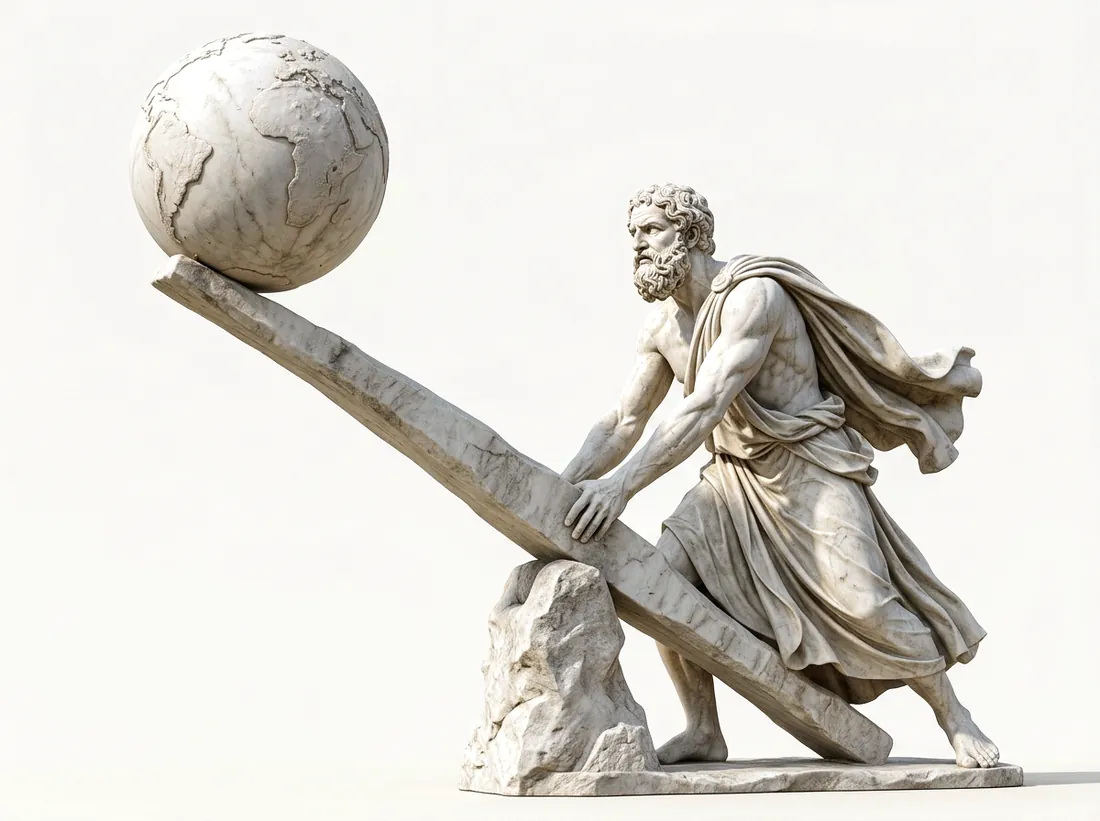
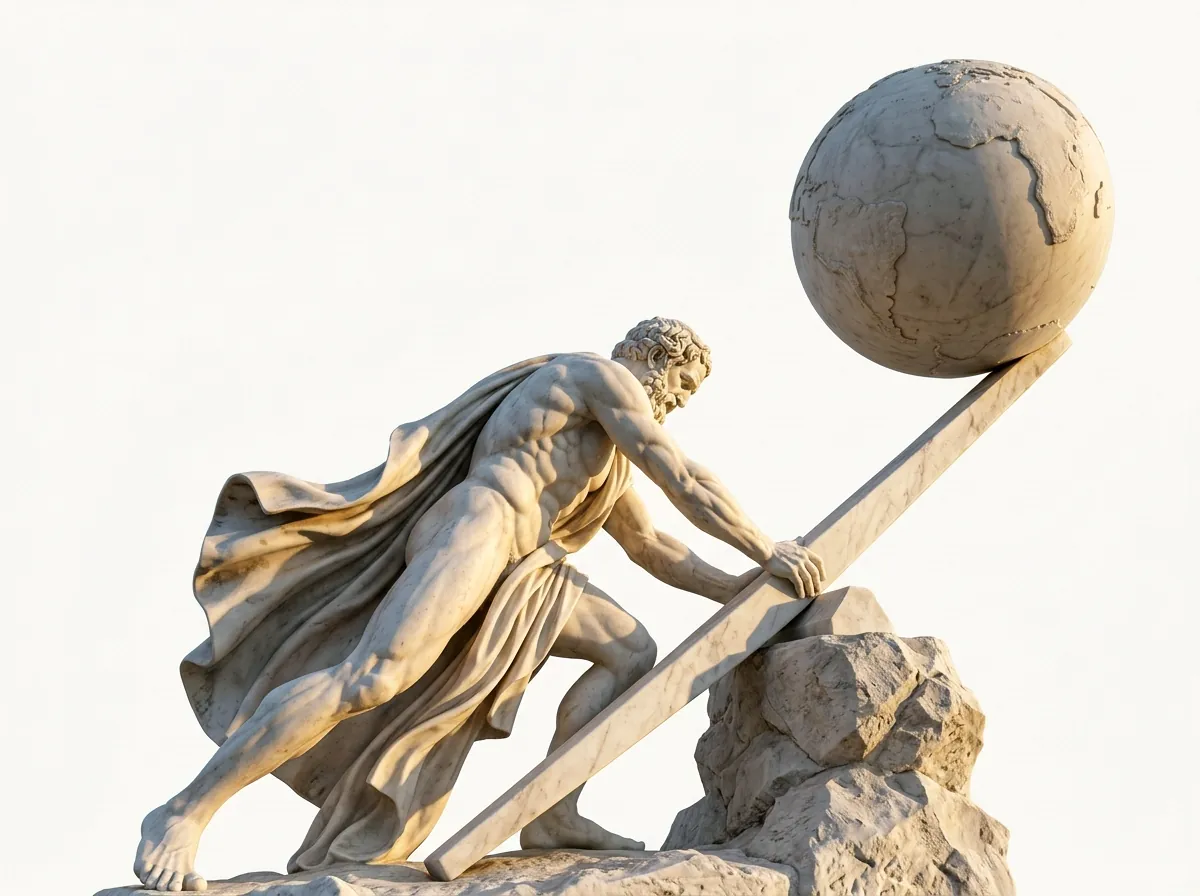
Demo: longer telos hold with sunrise finish, titan Archimedes, thumbs-up Aristotle CTA
Claude-Session: https://claude.ai/code/session_01M8mVGnhN6MYozZihRYpNZH

diff --git a/site/demo/index.html b/site/demo/index.html
@@ -126,25 +126,41 @@
   @keyframes bob { 50% { transform: translateY(-8px); } }
 
   /* telos */
-  .telos { height: 380vh; }
-  .telos-pin { position: sticky; top: 0; height: 100vh; display: grid; place-items: center; overflow: hidden; background: var(--ivory-2); }
+  .telos { height: 520vh; }
+  .telos-pin { position: sticky; top: 0; height: 100vh; display: grid; place-items: center; overflow: hidden;
+    --w: min(1, calc(var(--p, 0) * 3.4)); --m: clamp(0, calc(var(--p, 0) * 10 - 2.6), 1); --d: clamp(0, calc(var(--p, 0) * 10 - 3.4), 1);
+    --q: clamp(0, calc(var(--p, 0) * 10 - 4.3), 1); --s: clamp(0, calc((var(--p, 0) - .52) * 2.4), 1); --e: clamp(0, calc(var(--p, 0) * 12 - 10.8), 1);
+    background: color-mix(in srgb, #fbe6da calc(var(--s) * 70%), var(--ivory-2)); }
   .telos-inner { text-align: center; padding: 0 24px; position: relative; z-index: 2; }
-  .telos-word { font-family: var(--serif); font-size: clamp(96px, 16vw, 230px); line-height: .9; letter-spacing: -.035em; filter: blur(calc(max(0, 1 - var(--p, 0) * 1.5) * 18px)); opacity: calc(.25 + min(1, var(--p, 0) * 1.5) * .75); transform: scale(calc(1.08 - min(1, var(--p, 0) * 1.5) * .08)); }
-  .telos-meta { margin-top: 18px; display: flex; justify-content: center; gap: 14px; align-items: baseline; flex-wrap: wrap; font-size: 18px; color: var(--ink-3); opacity: clamp(0, calc(var(--p, 0) * 3 - .9), 1); transform: translateY(calc((1 - clamp(0, calc(var(--p, 0) * 3 - .9), 1)) * 16px)); }
+  .telos-word { font-family: var(--serif); font-size: clamp(96px, 16vw, 230px); line-height: .9; letter-spacing: -.035em; filter: blur(calc((1 - var(--w)) * 18px)); opacity: calc(.25 + var(--w) * .75); transform: scale(calc(1.08 - var(--w) * .08 + var(--e) * .04)); color: color-mix(in srgb, var(--clay) calc(var(--s) * 100%), var(--ink)); }
+  .telos-meta { margin-top: 18px; display: flex; justify-content: center; gap: 14px; align-items: baseline; flex-wrap: wrap; font-size: 18px; color: var(--ink-3); opacity: var(--m); transform: translateY(calc((1 - var(--m)) * 16px)); }
   .telos-meta .greek { font-family: var(--serif); font-size: 30px; color: var(--ink); }
   .telos-meta .pos { font-family: var(--serif); font-size: 20px; }
-  .telos-def { font-family: var(--serif); font-size: clamp(24px, 2.8vw, 36px); line-height: 1.25; max-width: 24ch; margin: 18px auto 0; opacity: clamp(0, calc(var(--p, 0) * 3 - 1.3), 1); transform: translateY(calc((1 - clamp(0, calc(var(--p, 0) * 3 - 1.3), 1)) * 16px)); }
-  .telos-q { margin-top: 44px; opacity: clamp(0, calc(var(--p, 0) * 3 - 1.8), 1); transform: translateY(calc((1 - clamp(0, calc(var(--p, 0) * 3 - 1.8), 1)) * 20px)); }
+  .telos-def { font-family: var(--serif); font-size: clamp(24px, 2.8vw, 36px); line-height: 1.25; max-width: 24ch; margin: 18px auto 0; opacity: var(--d); transform: translateY(calc((1 - var(--d)) * 16px)); }
+  .telos-q { margin-top: 44px; opacity: var(--q); transform: translateY(calc((1 - var(--q)) * 20px)); }
   .telos-q p:first-child { font-size: clamp(22px, 2.4vw, 30px); font-weight: 600; letter-spacing: -.01em; }
   .telos-q p:last-child { margin-top: 6px; font-size: 19px; color: var(--ink-3); }
-  .telos-q .clay { position: relative; }
-  .cloud { position: absolute; border-radius: 50%; background: radial-gradient(circle, rgba(176,174,165,.55), rgba(176,174,165,0) 70%); filter: blur(18px); z-index: 3; pointer-events: none; opacity: calc(1 - var(--p, 0) * 1.6); }
-  .cloud.c1 { width: 60vw; height: 34vh; left: calc(-10vw - var(--p, 0) * 40vw); top: 22%; }
-  .cloud.c2 { width: 50vw; height: 30vh; right: calc(-8vw - var(--p, 0) * 40vw); top: 40%; }
-  .cloud.c3 { width: 44vw; height: 26vh; left: calc(20vw - var(--p, 0) * 30vw); top: 58%; }
-  .cloud.c4 { width: 40vw; height: 24vh; right: calc(18vw - var(--p, 0) * 36vw); top: 14%; }
-  .telos-scroll { position: absolute; bottom: 28px; left: 50%; transform: translateX(-50%); font-family: var(--mono); font-size: 11px; letter-spacing: .2em; color: var(--ink-4); opacity: calc(1 - var(--p, 0) * 4); }
-  .telos-scroll::after { content: ""; display: block; width: 1px; height: 36px; background: var(--ink-4); margin: 10px auto 0; animation: drip 1.8s infinite; transform-origin: top; }
+  .telos-q .free { color: var(--ink); background-image: linear-gradient(var(--clay), var(--clay)); background-repeat: no-repeat; background-position: 0 100%; background-size: calc(var(--s) * 100%) 2px; padding-bottom: 2px; }
+  .cloud { position: absolute; border-radius: 50%; background: radial-gradient(circle, rgba(176,174,165,.55), rgba(176,174,165,0) 70%); filter: blur(18px); z-index: 3; pointer-events: none; opacity: calc(1 - var(--p, 0) * 3); }
+  .cloud.c1 { width: 60vw; height: 34vh; left: calc(-10vw - var(--p, 0) * 90vw); top: 22%; }
+  .cloud.c2 { width: 50vw; height: 30vh; right: calc(-8vw - var(--p, 0) * 90vw); top: 40%; }
+  .cloud.c3 { width: 44vw; height: 26vh; left: calc(20vw - var(--p, 0) * 80vw); top: 58%; }
+  .cloud.c4 { width: 40vw; height: 24vh; right: calc(18vw - var(--p, 0) * 80vw); top: 14%; }
+  .telos-sun { position: absolute; left: 50%; top: 50%; width: min(80vmin, 760px); aspect-ratio: 1; border-radius: 50%; z-index: 1; pointer-events: none;
+    background: radial-gradient(circle, rgba(217,119,87,.55) 0%, rgba(235,201,183,.5) 35%, rgba(250,249,245,0) 68%);
+    opacity: var(--s); transform: translate(-50%, calc(-50% + (1 - var(--s)) * 36vh)) scale(calc(.55 + var(--s) * .55 + var(--e) * .12)); }
+  .telos-sun::after { content: ""; position: absolute; inset: -20%; background: repeating-conic-gradient(rgba(217,119,87,.13) 0deg 3deg, transparent 3deg 12deg); -webkit-mask: radial-gradient(circle, #000 0 22%, transparent 60%); mask: radial-gradient(circle, #000 0 22%, transparent 60%); animation: spin 50s linear infinite; }
+  .telos-prog { position: absolute; bottom: 30px; left: 50%; transform: translateX(-50%); z-index: 4; display: grid; justify-items: center; gap: 10px; font-family: var(--mono); font-size: 11px; letter-spacing: .16em; text-transform: uppercase; color: var(--ink-4); }
+  .telos-prog .lbl { position: relative; height: 14px; width: 260px; text-align: center; }
+  .telos-prog .lbl span { position: absolute; inset: 0; transition: opacity .3s; }
+  .telos-prog .l1 { opacity: 1; }
+  .telos-prog .l2 { opacity: 0; color: var(--clay); transform: translateY(6px); transition: opacity .4s, transform .4s; }
+  .telos-pin.done .telos-prog .l1 { opacity: 0; }
+  .telos-pin.done .telos-prog .l2 { opacity: 1; transform: none; }
+  .telos-prog .trk { width: 220px; height: 3px; border-radius: 9px; background: rgba(20,20,19,.1); overflow: hidden; }
+  .telos-prog .trk i { display: block; height: 100%; width: calc(var(--p, 0) * 100%); background: var(--clay); border-radius: 9px; }
+  .telos-pin.done .telos-prog .trk { animation: glowbar 1.2s ease-in-out infinite; }
+  @keyframes glowbar { 50% { box-shadow: 0 0 12px 2px rgba(217,119,87,.6); } }
   @keyframes drip { 0% { transform: scaleY(0); } 50% { transform: scaleY(1); } 100% { transform: scaleY(1); opacity: 0; } }
 
   /* busywork */
@@ -359,8 +375,8 @@
 
   /* ancient */
   .ancient { padding: 120px 0; background: var(--ivory); border-top: 1px solid var(--line); border-bottom: 1px solid var(--line); overflow: hidden; }
-  .ancient .wrap { display: grid; grid-template-columns: 1fr 1fr; gap: 56px; align-items: center; }
-  .ancient img { mix-blend-mode: multiply; transform: translateY(var(--py, 0px)); max-height: 640px; width: 100%; object-fit: contain; -webkit-mask-image: linear-gradient(to right, transparent 0, #000 16%, #000 84%, transparent 100%), linear-gradient(to bottom, transparent 0, #000 14%, #000 86%, transparent 100%); -webkit-mask-composite: source-in; mask-image: linear-gradient(to right, transparent 0, #000 16%, #000 84%, transparent 100%), linear-gradient(to bottom, transparent 0, #000 14%, #000 86%, transparent 100%); mask-composite: intersect; }
+  .ancient .wrap { display: grid; grid-template-columns: 1.3fr 1fr; gap: 48px; align-items: center; max-width: 1360px; }
+  .ancient img { mix-blend-mode: multiply; transform: translateY(var(--py, 0px)); max-height: 800px; width: 100%; object-fit: contain; -webkit-mask-image: linear-gradient(to right, transparent 0, #000 8%, #000 92%, transparent 100%), linear-gradient(to bottom, transparent 0, #000 8%, #000 94%, transparent 100%); -webkit-mask-composite: source-in; mask-image: linear-gradient(to right, transparent 0, #000 8%, #000 92%, transparent 100%), linear-gradient(to bottom, transparent 0, #000 8%, #000 94%, transparent 100%); mask-composite: intersect; }
   .ancient blockquote { font-family: var(--serif); font-size: clamp(34px, 4vw, 56px); line-height: 1.12; margin: 0 0 22px; min-height: 2.3em; }
   .ancient blockquote .cur { display: inline-block; width: 3px; height: .9em; background: var(--clay); vertical-align: -.08em; margin-left: 3px; animation: blink 1s steps(2) infinite; }
   .ancient cite { font-style: normal; font-size: 14px; color: var(--ink-4); font-family: var(--mono); }
@@ -402,7 +418,7 @@
   /* final */
   .final { padding: 0 0 120px; }
   .final-card { position: relative; border-radius: 24px; overflow: hidden; min-height: 560px; display: grid; align-items: center; background: #ece6d8; }
-  .final-card img { position: absolute; inset: 0; width: 100%; height: 100%; object-fit: cover; object-position: 30% 50%; transform: scale(var(--fs, 1.1)); transition: transform 2.4s var(--ease); }
+  .final-card img { position: absolute; inset: 0; width: 100%; height: 100%; object-fit: cover; object-position: 20% 40%; transform: scale(var(--fs, 1.1)); transition: transform 2.4s var(--ease); }
   .final-card.in img { --fs: 1; }
   .final-glow { position: absolute; right: 8%; top: 50%; width: 520px; aspect-ratio: 1; border-radius: 50%; transform: translateY(-50%); background: radial-gradient(circle, rgba(217,119,87,.45), rgba(217,119,87,0) 65%); animation: breathe 6s ease-in-out infinite; }
   @keyframes breathe { 50% { transform: translateY(-50%) scale(1.15); opacity: .7; } }
@@ -457,9 +473,10 @@
     .how { height: auto; padding: 96px 0; } .how-pin { position: static; height: auto; } .step { opacity: 1; } .how-count { display: none; }
     .busy-grid, .sgrid, .steps { grid-template-columns: 1fr; }
     .bcard { min-height: 0; }
-    .final-card { min-height: 620px; align-items: end; }
-    .final-card img { object-position: 22% 30%; }
-    .final-copy { padding: 28px 22px; background: linear-gradient(transparent, rgba(250,249,245,.92) 22%); }
+    .final-card { min-height: 0; display: block; }
+    .final-card img { position: relative; height: 320px; object-position: 22% 30%; }
+    .final-glow { display: none; }
+    .final-copy { padding: 26px 22px 30px; background: none; }
     .qa button { font-size: 21px; }
     .ribbon span { font-size: 24px; }
     .foot-top { grid-template-columns: 1fr 1fr; }
@@ -469,7 +486,7 @@
     .rv, .hero h1 .w > span, .statue, .chip { opacity: 1 !important; transform: none !important; }
     .telos { height: auto; } .telos-pin { position: relative; height: auto; padding: 120px 0; }
     .telos-word, .telos-meta, .telos-def, .telos-q { filter: none !important; opacity: 1 !important; transform: none !important; }
-    .cloud { display: none; }
+    .cloud, .telos-sun, .telos-prog { display: none; }
   }
 </style>
 </head>
@@ -523,7 +540,8 @@
 
   <!-- 2. TELOS -->
   <section class="telos" id="telos" aria-label="What telos means">
-    <div class="telos-pin">
+    <div class="telos-pin" id="telosPin">
+      <div class="telos-sun" aria-hidden="true"></div>
       <div class="cloud c1"></div><div class="cloud c2"></div><div class="cloud c3"></div><div class="cloud c4"></div>
       <div class="telos-inner">
         <div class="telos-word">telos</div>
@@ -531,10 +549,10 @@
         <p class="telos-def">the ultimate purpose and inherent goal of a human action.</p>
         <div class="telos-q">
           <p>Is busywork clouding your <span class="clay">telos</span>?</p>
-          <p>We build AI systems to set it free.</p>
+          <p>We build AI systems to <span class="free">set it free.</span></p>
         </div>
       </div>
-      <div class="telos-scroll">SCROLL</div>
+      <div class="telos-prog" aria-hidden="true"><div class="lbl"><span class="l1">Clearing the busywork</span><span class="l2">Telos set free ✓</span></div><div class="trk"><i></i></div></div>
     </div>
   </section>
 
@@ -682,7 +700,7 @@
   <!-- 7. ANCIENT -->
   <section class="ancient" id="ancient">
     <div class="wrap">
-      <img class="rv rv-l" id="forge" src="img/archimedes.webp" alt="Marble statue of Archimedes using a lever to lift a globe of the Earth" width="1100" height="821" loading="lazy">
+      <img class="rv rv-l" id="forge" src="img/archimedes.webp" alt="Marble statue of Archimedes using a lever to lift a globe of the Earth" width="1200" height="896" loading="lazy">
       <div>
         <blockquote id="quote" data-text="“Give me a place to stand, and I will move the earth.”"></blockquote>
         <cite class="rv">Archimedes · as recorded by Pappus of Alexandria</cite>
@@ -722,7 +740,7 @@
   <!-- 9. FINAL -->
   <section class="final wrap" id="book">
     <div class="final-card rv rv-s" id="finalCard">
-      <img src="img/dawn.webp" alt="Marble statue of a woman facing a warm sunrise" width="1400" height="781" loading="lazy">
+      <img src="img/thumbs.webp" alt="Marble bust of Aristotle in pixel sunglasses giving a thumbs up" width="1600" height="893" loading="lazy">
       <div class="final-glow"></div>
       <div class="final-copy">
         <h2 class="big">Set your telos <span class="clay">free.</span></h2>
@@ -781,6 +799,7 @@
     const tr = telos.getBoundingClientRect();
     const tp = Math.min(1, Math.max(0, -tr.top / (tr.height - innerHeight)));
     telos.style.setProperty('--p', reduce ? 1 : tp.toFixed(3));
+    document.getElementById('telosPin').classList.toggle('done', tp > .92);
     const how = document.getElementById('how'), hr = how.getBoundingClientRect();
     let hp;
     if (getComputedStyle(how.firstElementChild).position === 'sticky') {
